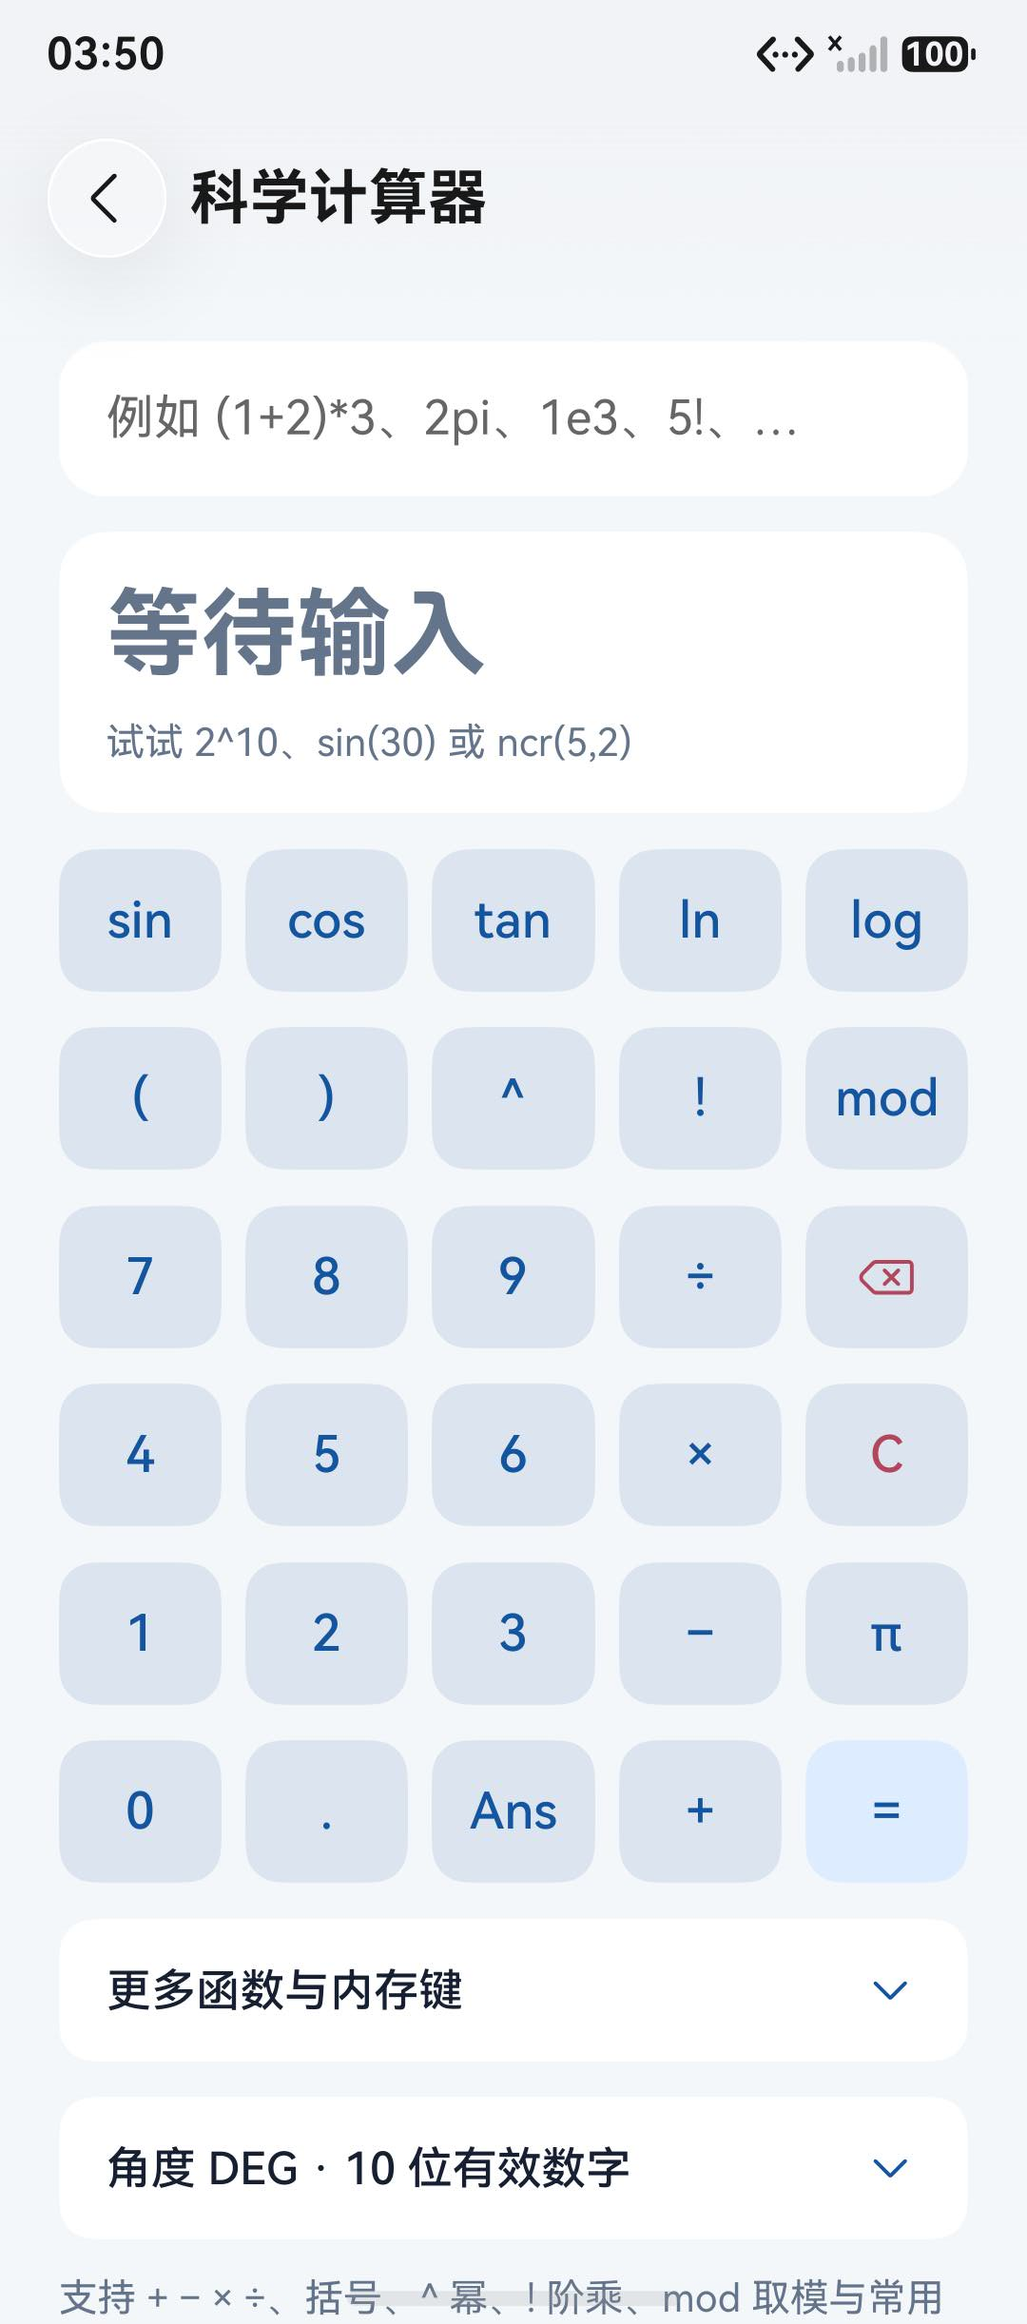
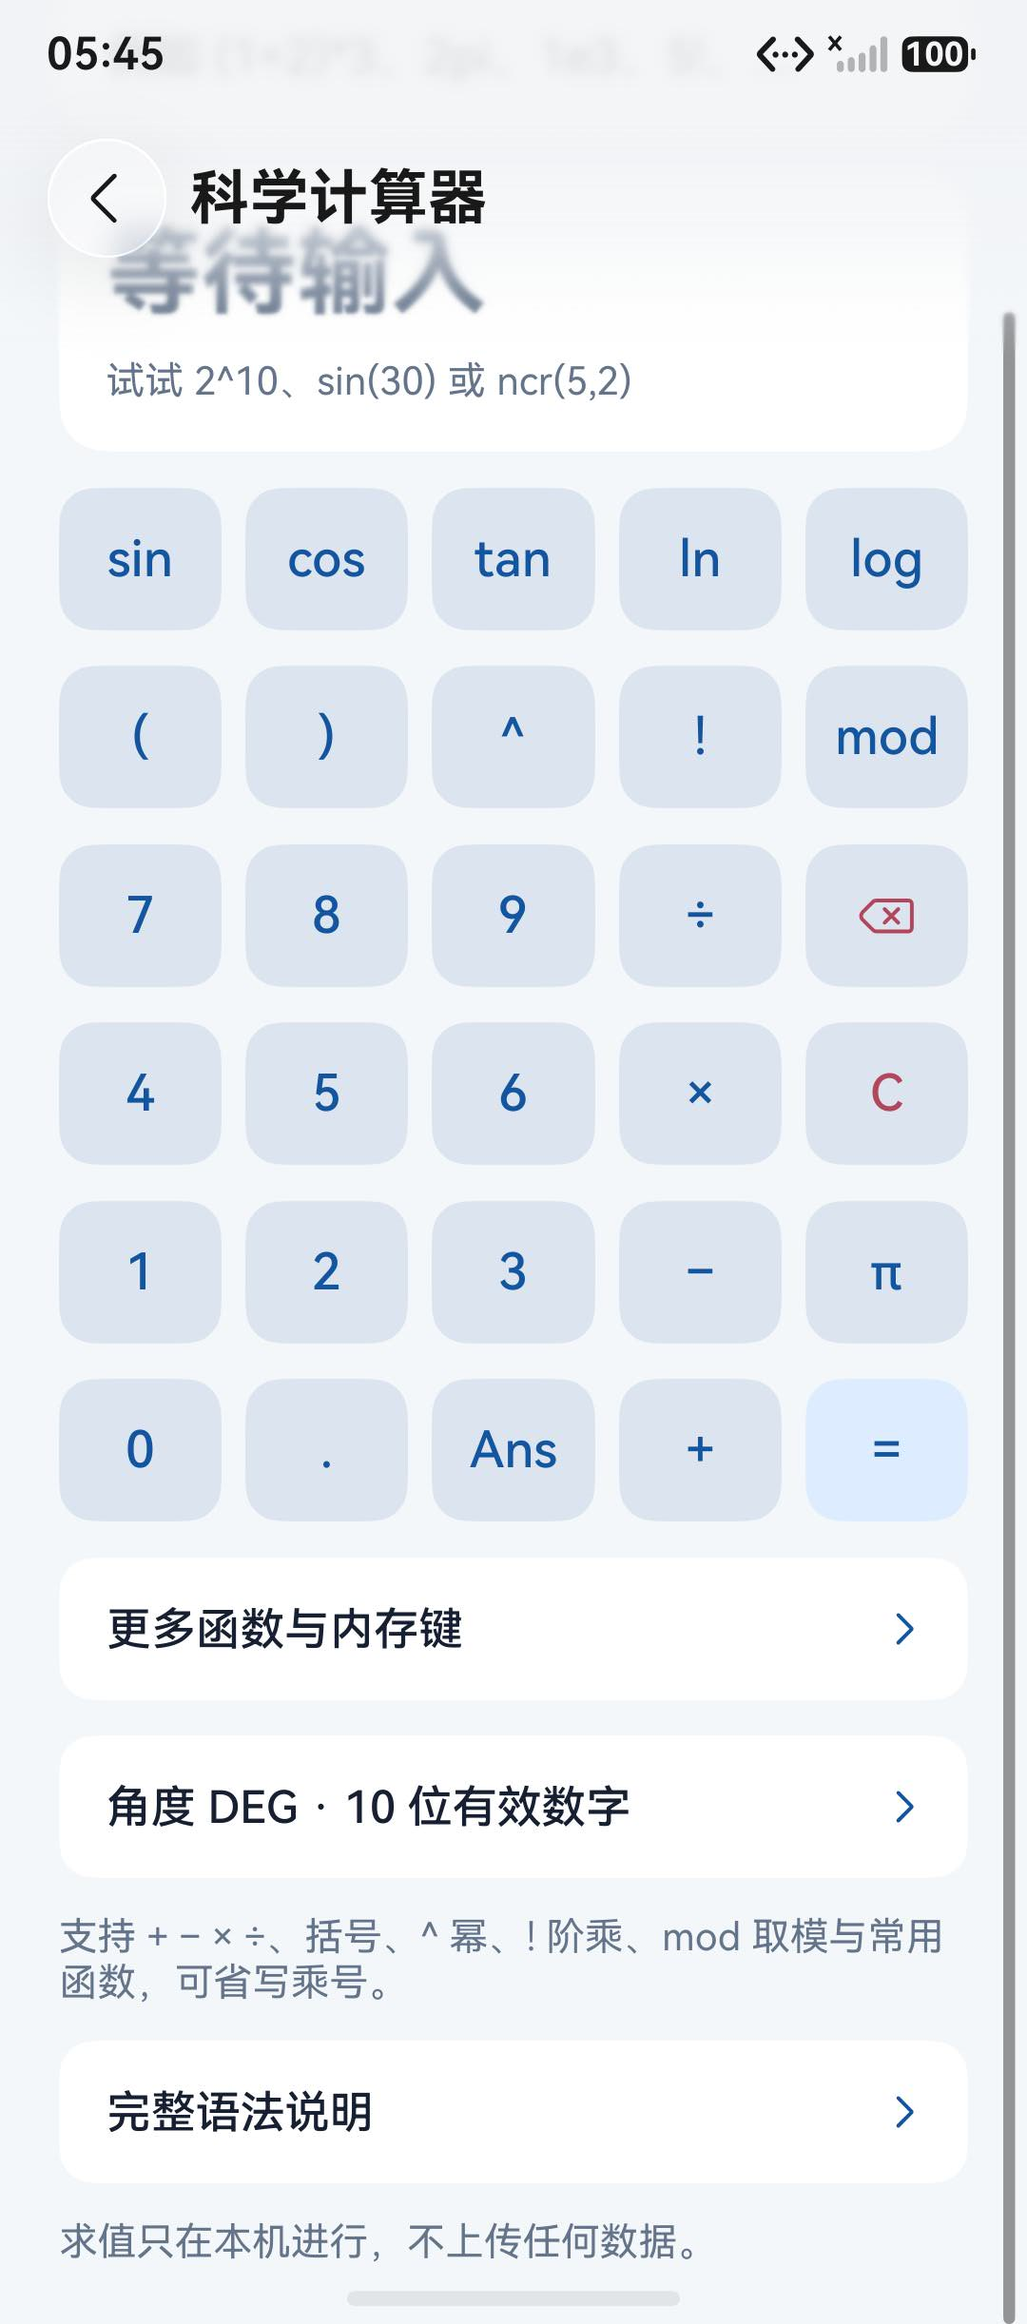
feat(harmonyos): 展开指示箭头统一为「未展开 ▶ / 展开 ▼」
此前同类控件混用三种表达：文本工具永远朝下、科学计算器/个税/贷款「朝上=已展开」、系统 Select 自带
实心 ▼。现统一为未展开 chevron_right、展开 chevron_down（设置页「导航到子页」的 ▶ 语义不同，保留）。

- TextPage：4 个 bindMenu 分组入口用 MenuOptions.onAppear/onDisappear（ContextMenuOptions 提供）
  记 @Local openTextMenu，onDisappear 只在仍是自己时清空，避免连点两行串台
- SciencePage（3 个入口 + 更多函数键）、TaxPage（高级区）、LoanPage（还款计划表）改为同一套
- 系统 Select（OptionSelect，健康页活动量等）**做不到**：SelectAttribute 没有菜单开合回调（已核
  select.d.ts 全部方法），只能保留系统 ▼；要 ▶/▼ 只能换成 Button + bindMenu 自绘，会丢系统下拉
  样式/子窗/键盘避让，不建议
- 顺带补回被并行会话提交覆盖的「个税高级区标题不翻转」回执行（该行原本只写进了索引、没落到工作区）
- 文档：AGENTS 记录箭头约定与三种状态来源；DEVICE_ACCEPTANCE 加 2 条、改写 1 条；RELEASE_CHECKLIST 加一条

diff --git a/AGENTS.md b/AGENTS.md
@@ -298,7 +298,9 @@
 - **水平仪**：`model/LevelMath.ets` 里 `calculateLevel()` 只做**绝对**读数，倾角容差是常量 `LEVEL_TOLERANCE_DEGREES = 2`；`applyOffset()` 负责置零后的**相对**读数，**返回新实例**（ArkUI V2 不通知原地修改，与计时页 `syncWatch()` 同一口径），相对倾角取两轴偏差的**欧氏合成**、气泡按 `64 · sin(θ)` 重算，因此「气泡居中」与「相对倾角 ≤2°」始终是同一件事。显示单位走 `LEVEL_UNITS` 登记表（度 / 坡度 % / 毫米每米 / 斜率比），`tiltDisplayText(tilt, unit, english)` 统一格式化：倾角按绝对值取 `tan`，斜率比在 `RATIO_LEVEL_LIMIT_DEGREES`（0.05°）以内显示「水平」/`Level` 而**不出现 `1:∞`**，坡度类单位在 `SLOPE_LIMIT_DEGREES`（85°）及以上显示「接近垂直」/`Near vertical`——**90° 附近 `tan` 会发散**（模拟器竖放设备实测 `tan(90°)` 给出 1.6e16，按它格式化就是 18 位数字），绝不允许把这种数字打印出来。页面 `component/LevelPage.ets` 的读数分三层：`raw`（绝对，峰值按它统计）、`offset`（置零基准，**以绝对角度存储**，所以重复置零不叠加误差、切换单位不影响基准）、`shown`（界面显示值，未锁定时跟随刷新，`held` 锁定后冻结）；置零/清除基准/解锁都必须重算 `shown`。峰值走 `peakTilt()`（只增不减、非法输入不改变已有峰值），复制走 `levelCopyText()`（相对基准时另有措辞）。**同样不写历史**；单位选择落盘键 `level_unit`；屏幕常亮与指南针同一套做法。传感器精度提示复用 `model/SensorAccuracy.ets`（`magnetometer = false`）。
 - **亲戚称呼**：解析、归一化与称谓登记表全在纯逻辑 `model/KinshipMath.ets`。`KIN_STEPS` 是十个原子步骤（父/母/兄/弟/姐/妹/夫/妻/子/女，含中英别名与 `generation` 增量）；`parseKinChain()` 先把输入与别名都去掉空格、`'s`/`’s`、`的`/`之`/`、`/`,`/`→` 并转小写，再**贪心最长匹配**（所以 `哥哥` 先于 `哥`、`olderbrother` 先于 `brother`），错误码只有 `empty`/`unknown`/`limit`（>16 步）。`normalizeKinPath()` 在**任意相邻两步**上反复套用四类规则：`father wife → mother`、`mother husband → father`、`husband|wife + 配偶 → 空`、`子女 + mother|father` 按**本人性别**返身（男：儿子的妈妈=老婆；女：儿子的妈妈=本人）、同向同胞自消（哥哥的哥哥=哥哥）——**只消解能唯一确定的关系，长幼有歧义的一律不动**。归一化后的路径查 `KIN_TERMS`（约 85 条：祖辈/曾祖辈、父母的兄弟姐妹及其配偶、堂/表兄弟姐妹、侄甥、孙辈、岳父母/公婆、配偶的兄弟姐妹、儿媳女婿），**未收录不猜**：返回 `named = false` 与关系链描述（`妈妈 → 弟弟` / `mother's younger brother`），界面换一套措辞说明「暂未收录成单一称谓」。因此新增关系 = 往 `KIN_TERMS` 加一条 `term(path, zh, en, noteZh, noteEn)`（`path` 用 `>` 连接、空串表示本人），**不要在页面里加分支**。`kinGenerationText()` 的辈分差就是各步 `generation` 之和；`kinCopyText()` 复制的是「爸爸的哥哥：伯父（高我一辈）」整句。页面 `component/KinshipPage.ets` 只有输入框、本人性别 `OptionSelect`、十个步骤按钮（`appendKinStep()`/`removeLastKinStep()` 是纯函数，中文接 `的`、英文接 `'s `；键高 44 vp，2026-10-21 与科学计算器常用键、计时页预设统一）、删除/清空（`IconActionButton`）与结果卡；**结果卡行仍按「@Builder 只收常量 kind、体内现取」**。本页**不写历史记录**（与科学计算器同口径，只有复制），也**不做反向查询**。
 - **设备信息（设置页）**：`services/DeviceInfo.ets` 只读 `deviceInfo`（型号/市场名/系统/API/设备类型）与 `bundleManager.getBundleInfoForSelfSync()`（应用版本），**不申请权限**；取不到的字段返回空串、界面跳过该行（不要写「未知」之外臆测值）。展示在设置页的「设备信息」区块，`SettingsPage.aboutToAppear()` 读一次即可；不要把它做成一枚工具卡片。
[2 lines of base64/hex data omitted]
+
+**不要拿「收起 xxx」当可见标题**——`TaxPage` 的「展开扣除与累计数据」↔「收起扣除与累计数据」也已在 2026-10-21 统一成固定标题「扣除与累计数据」+ chevron（可见文案里不再出现「展开/收起」，全部收进 `accessibilityText`）。
 
 **结果卡里还有一行「正在计算 …」预览**：`prettyExpression()`（纯逻辑）把 ASCII 运算符润色成键面符号（`*`→`×`、`/`→`÷`、`-`→`−`、`pi`→`π`），`pi` 按**记号边界**替换（`2pi`→`2π`，`api`/`pi2` 不动），**只显示、绝不写回表达式**——解析层不认这些符号，写回去用户就算不出来了（单测对此有正反两条断言：润色串必须 `syntax` 错、原串必须可求值）；空表达式时不渲染这一行。**整页内容限宽居中**（`SCIENCE_CONTENT_MAX_WIDTH = 520` vp：外层 `Column` 负责居中、内层 `constraintSize({ maxWidth })`）：展开态 690 vp 时 5 列键每格会有约 123 vp 宽、像一条条长条，限到 520 vp 后约 95 vp；折叠态本来就窄，不受影响。页面还有「精度」`OptionSelect`（复用单位换算的 `PRECISION_OPTIONS`）与结果卡的「用结果替换表达式」图标按钮（`sys.symbol.arrow_down_to_line`，**整串替换而不是追加**：页面没有光标跟踪，追加会与前面的数字粘成一个字面量（`2^100` 后接 `1.26e+30` 会被读成 `2^(1001.26e+30)`），与复制/清空同排）。**动作键口径**：① `Ans` 与 `MR` 都是**把值当因子插入**（纯逻辑 `insertValueAsFactor()`：前面是一个完整值结尾——数字/`.`/`)`/`!`/标识符字母——就补 `*`，否则直接拼；`2+3` + `1024` 必须得到 `2+3*1024` 而不是 `2+31024`）；`Ans` 的值来自 `@Monitor('expression')` 记录的**上一次有效结果**（清空表达式后仍可用，失败/空表达式不覆盖，绝不静默不动）；② 退格走纯逻辑 `backspaceExpression()`：**整词优先**（末尾正好是 `sqrt(`/`ncr(`/`pi`/`mod` 这类多字符键的完整文本就整块删），否则退一个字符，末尾空格一并吃掉；**退格键是带底色的键位（与文字键同款），不走 `IconActionButton`**（它不是独立图标操作）；③ 内存四项在 `MEMORY_KEYS` 登记表里（`label` 是键面文字、`zh`/`en` 是无障碍名称），累加/累减走 `memoryAfterAdd()`/`memoryAfterSubtract()`（**没存过时 `M+` 就等于当前结果、`M−` 是它的相反数，不是 0 减**；非法结果不污染内存），显示走 `memoryDisplayText()`（没存过给空串、界面据此不渲染那一行，**不用 0 顶替**）；内存与 `Ans` 都是页面状态、**不落盘**；④ 无效动作（结果无效时按 `M+`/`M−`、内存为空时按 `MR`/`MC`）一律经 `@Event onStatus` 说明原因（由 `Index` 接到系统 toast，与其它页面一致），**不要静默失败、也不要假装存了 0**。结果卡空态另给一句可上手的例子（`calcEmptyHintText()`，与输入占位符 `calcHintText()` **不是同一句**：占位符讲写法、这里讲先试什么）。本页仍**不写历史记录**（只有复制）。
 - **健康计算**：BMI 分类切点、正常体重范围、BMR（Mifflin-St Jeor）与 TDEE 都在纯逻辑 `model/HealthMath.ets`；切点用「≥」（24.0 超重、28.0 肥胖），BMR 男 +5 / 女 −161，活动系数五档 1.2–1.9；页面实时出结果（身高+体重算 BMI，补年龄再出 BMR/TDEE），文案必须写明**按中国成人标准**、结果为估算且不构成医疗建议。

diff --git a/docs/DEVICE_ACCEPTANCE.md b/docs/DEVICE_ACCEPTANCE.md
@@ -2056,7 +2056,9 @@ Pura X / Pura X View 480、Pura X Max 440、Mate XT 460、Mate 90 Pro 560、Mate
 | 结果卡空态引导 | 通过 | 表达式为空时显示区显示「等待输入」+「试试 2^10、sin(30) 或 ncr(5,2)」（冷启动与点「清空」后都验证过），与输入占位符不是同一句 |
 | 「正在计算 …」润色预览（2026-10-21） | 通过 | `1+2*3` 时显示区依次是：输入框 `1+2*3`、预览 `正在计算 1+2×3`（`*`→`×`、`/`→`÷`、`-`→`−`、`pi`→`π`，`pi` 按记号边界替换）、结果 `7`；空表达式时**不渲染**这一行（只剩「等待输入」+ 引导句）。截图 [science-pretty-folded-zh.jpeg](screenshots/emulator/science-pretty-folded-zh.jpeg)、[science-pretty-wide-zh.jpeg](screenshots/emulator/science-pretty-wide-zh.jpeg) |
 | 更多函数面板标签完整（2026-10-21） | 通过 | 修复前「更多函数」面板用 `Button(label)` 的默认左右内边距，折叠态每格约 57 vp，`sqrt(`/`atanh(` 全被挤成「s…」；改成显式 `.padding({ left: 4, right: 4 })` + `fontSize(13)` 后，折叠态 `dumpLayout` 25 个标签全部完整（`sqrt(` [62,1119][233,1257]、`atanh(` [651,1444][822,1582]、`npr(` [847,1769][1018,1907]），内存行 `M+ M− MR MC` 不变。截图 [science-more-panel-folded-zh.jpeg](screenshots/emulator/science-more-panel-folded-zh.jpeg) |
-| 折叠入口标题不翻转（2026-10-21） | 通过 | 「更多函数与内存键」「角度 DEG · 10 位有效数字」「完整语法说明」三个入口的可见标题**在展开前后完全一致**（折叠态 `dumpLayout`：展开前后都是 `更多函数与内存键 [112,2066][880,2121]` 这一行文本，状态只由 chevron 指上/指下表达）。修复前展开后会变成「收起更多函数」（还漏了「与内存」）/「收起设置」（把当前角度与精度整条盖掉）。截图 [science-entries-collapsed-zh.jpeg](screenshots/emulator/science-entries-collapsed-zh.jpeg)、[science-more-entry-expanded-zh.jpeg](screenshots/emulator/science-more-entry-expanded-zh.jpeg) |
+| 折叠入口标题不翻转（2026-10-21） | 通过 | 「更多函数与内存键」「角度 DEG · 10 位有效数字」「完整语法说明」三个入口的可见标题**在展开前后完全一致**（折叠态 `dumpLayout`：展开前后都是 `更多函数与内存键 [112,2066][880,2121]` 这一行文本，状态只由箭头表达——未展开 ▶ `chevron_right`、展开 ▼ `chevron_down`）。修复前展开后会变成「收起更多函数」（还漏了「与内存」）/「收起设置」（把当前角度与精度整条盖掉）。截图 [science-entries-collapsed-zh.jpeg](screenshots/emulator/science-entries-collapsed-zh.jpeg)、[science-more-entry-expanded-zh.jpeg](screenshots/emulator/science-more-entry-expanded-zh.jpeg) |
+| 个税高级区标题不翻转（2026-10-21） | 通过 | `TaxPage` 的「展开扣除与累计数据」↔「收起扣除与累计数据」改成固定标题「扣除与累计数据」+ 箭头（未展开 ▶ / 展开 ▼）；折叠态实测点开后标题仍是 `扣除与累计数据`（位置不变），下方出现「本期专项附加扣除」区。截图 [tax-advanced-entry-collapsed-zh.jpeg](screenshots/emulator/tax-advanced-entry-collapsed-zh.jpeg)、[tax-advanced-entry-expanded-zh.jpeg](screenshots/emulator/tax-advanced-entry-expanded-zh.jpeg) |
+| 展开箭头约定「未展开 ▶ / 展开 ▼」（2026-10-21） | 通过 | 文本工具 4 个分组入口（`bindMenu`）折叠态箭头朝右，点开「整理」后该行箭头翻成朝下、其余三行仍朝右（截图 [text-menu-collapsed-zh.jpeg](screenshots/emulator/text-menu-collapsed-zh.jpeg)、[text-menu-open-zh.jpeg](screenshots/emulator/text-menu-open-zh.jpeg)）；科学计算器 3 个入口（截图 [science-entries-collapsed-zh.jpeg](screenshots/emulator/science-entries-collapsed-zh.jpeg)）、个税高级区、贷款还款计划表同为一套。`bindMenu` 的开合状态来自 `MenuOptions.onAppear`/`onDisappear`（`ContextMenuOptions` 提供）；**系统 `Select`（`OptionSelect`，如健康页「活动量」）没有开合回调，只有 `onSelect`，因此做不到 ▶→▼**，见 `docs/RELEASE_CHECKLIST.md` 的说明 |
 | 宽屏内容限宽居中（2026-10-21） | 通过 | 展开态（2210 px ≈ 690 vp）`dumpLayout`：显示区与 6 行键盘左右边界都在 **343–1868 px**（≈ 508 vp，`SCIENCE_CONTENT_MAX_WIDTH = 520` vp 生效），两侧留白对称（343 / 342 px），不再把 5 列键拉成每条约 123 vp；折叠态（345 vp）本来就窄于上限、布局不变 |
 
 **验收中发现并修掉一个格式化缺陷（2026-10-20）**：把精度切到 6 位时结果曾显示成 `1.2676500000000001e+30` —— `Units.formatValue` 原先一律走 `Number(value.toPrecision(digits)).toString()`，而 **ArkTS 的 `Number#toString` 在大数量级上不保证最短表示**（会把 6 位写成 17 位），「有效位数」选项因此失效。现改为「指数写法下尾数取自 `toPrecision(digits)` 并裁掉尾零、指数部分仍用 `toString()`」，单测新增 `1.2676506e30` 的三档位断言与 `1e±101` 断言；该函数被单位换算与科学计算器共用，两处一并受益。

diff --git a/docs/RELEASE_CHECKLIST.md b/docs/RELEASE_CHECKLIST.md
@@ -260,6 +260,10 @@
   - **验证**：折叠态 `dumpLayout` 展开前后标题文本逐字相同（`更多函数与内存键` 始终在同一行），chevron 由下变上；`assembleHap` `BUILD SUCCESSFUL`、一致性检查 14 项、单测全绿。截图 [science-entries-collapsed-zh.jpeg](screenshots/emulator/science-entries-collapsed-zh.jpeg)、[science-more-entry-expanded-zh.jpeg](screenshots/emulator/science-more-entry-expanded-zh.jpeg)。
   - **同类已一并统一**：`TaxPage` 的「展开扣除与累计数据」↔「收起扣除与累计数据」改成固定标题「扣除与累计数据」+ chevron（可见文案里不再出现「展开/收起」，全部收进 `accessibilityText`）。实测折叠态：点开后标题仍是 `扣除与累计数据 [112,1480][880,1535]`（位置不变），下方出现「本期专项附加扣除」区。截图 [tax-advanced-entry-collapsed-zh.jpeg](screenshots/emulator/tax-advanced-entry-collapsed-zh.jpeg)、[tax-advanced-entry-expanded-zh.jpeg](screenshots/emulator/tax-advanced-entry-expanded-zh.jpeg)。全仓扫描确认：`tr('展开…')`/`tr('收起…')` 现在只出现在 `accessibilityText`/`a11yText` 里。
 
+- **展开指示箭头统一为「未展开 ▶ / 展开 ▼」（2026-10-21，已完成构建与折叠态模拟器复验）**：此前同一类控件混用了三种表达——文本工具用 `chevron_down`（永远朝下）、科学计算器/个税/贷款用 `chevron_up`+`chevron_down`（朝上=已展开）、系统 `Select` 用自带实心 ▼。现统一为**未展开 `chevron_right`、展开 `chevron_down`**（`settingsPage` 的「导航到子页」箭头仍保留 ▶，语义不同）。
+  ① **自持状态的行**（科学计算器 3 个入口、「更多函数与内存键」、个税高级区、贷款还款计划表）直接按 `showXxx`/`taxAdvanced`/`scheduleOpen` 切换；② **文本工具 4 个分组入口**是 `bindMenu`，用 `MenuOptions` 的 `onAppear`/`onDisappear`（`ContextMenuOptions` 提供，SDK 已核）把「当前打开的分组 id」记进 `@Local openTextMenu`，`onDisappear` 里**只有仍是自己才清空**（避免连点两行串台）；③ **系统 `Select`（`OptionSelect`，健康页「活动量」等 30+ 处）做不到**：`SelectAttribute` 只有 `onSelect(index, value)`、**没有任何菜单开合回调**（已核 `select.d.ts` 全部方法），所以只能保留系统自带的 ▼。若一定要 ▶/▼，唯一办法是把 `OptionSelect` 换成 `Button` + `bindMenu` 自绘——会丢掉系统下拉的菜单样式/子窗/键盘避让，**不建议**。
+  - **验证**：文本工具折叠态 4 行都是 ▶（[text-menu-collapsed-zh.jpeg](screenshots/emulator/text-menu-collapsed-zh.jpeg)），点开「整理」后该行翻成 ▼、其余仍 ▶（[text-menu-open-zh.jpeg](screenshots/emulator/text-menu-open-zh.jpeg)）；科学计算器 3 个入口同为 ▶（[science-entries-collapsed-zh.jpeg](screenshots/emulator/science-entries-collapsed-zh.jpeg)）、个税与贷款同；`assembleHap` `BUILD SUCCESSFUL`、一致性检查 14 项通过。
+
 - **健康计算工具 + 工具搜索关键词（2026-10-19，已完成单测、构建与模拟器复验）**：**新增第 17 个工具卡片**，仍不新增权限、不引入联网：
   ① 纯逻辑 `model/HealthMath.ets`：BMI（中国成人标准切点 18.5/24/28，**用「≥」判断**，24.0 记超重、28.0 记肥胖）与分类文案、`normalWeightRange()`（身高² × 18.5–23.9）、`bmr()`（Mifflin-St Jeor，男 +5 / 女 −161）、`tdee()`（BMR × 活动系数，五档 1.2–1.9）、输入解析与错误文案。页面 `component/HealthPage.ets` 实时出结果（身高/体重够就算 BMI，补年龄再出 BMR/TDEE）。
   ② **工具搜索支持关键词**：`model/ToolMeta.ets` 的 `ToolMeta` 增加可选 `keywords`（别名/缩写，只参与搜索不显示），`matchTools()` 一并匹配；已为二维码/条码/计算/个税/单位/计时/日期/时间戳/文本/随机/密码/贷款/颜色/健康/文档扫描/水平仪补齐关键词（如「健康计算」可用 `BMI`/`BMR`/`基础代谢` 搜到，`房贷` 命中贷款计算）。
